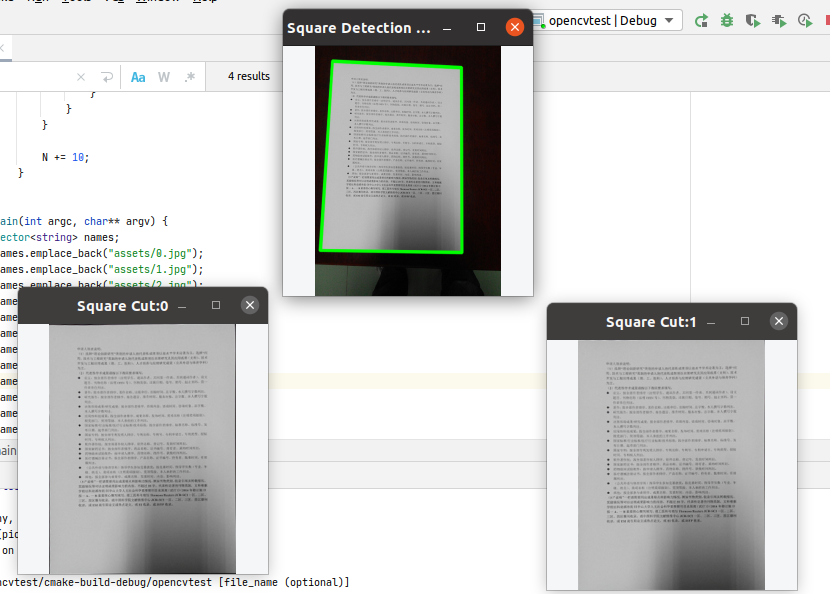
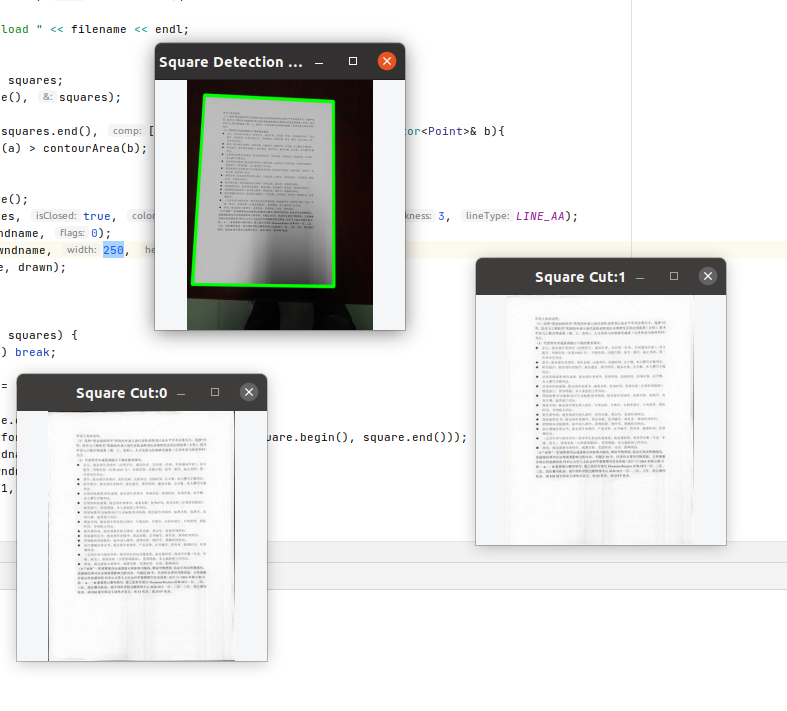
Added remove shadows

diff --git a/main.cpp b/main.cpp
@@ -138,6 +138,34 @@ static void findSquares( const Mat& image, vector<vector<Point> >& squares ) {
 		}
 	}
 }
+
+Mat removeShadows(const Mat& image) {
+	Mat rgb_planes[3];
+	split(image, rgb_planes);
+	Mat dilatation;
+	Mat blurred;
+	Mat difference;
+	Mat rgb_result[3];
+
+	for(int i = 0; i < 3; i++) {
+		Mat dilationKernel = getStructuringElement( MORPH_RECT, Size(9, 9));
+
+		dilate(rgb_planes[i], dilatation, dilationKernel);
+
+		medianBlur(dilatation, blurred, 21);
+
+		absdiff(rgb_planes[i], blurred, difference);
+		subtract(Scalar(255), difference, difference);
+
+		normalize(difference, rgb_result[i], 0, 255, NORM_MINMAX, CV_8UC1);
+	}
+
+	Mat result;
+	merge(rgb_result, 3, result);
+
+	return result;
+}
+
 int main(int argc, char** argv) {
 	vector<string> names;
 	names.emplace_back("assets/0.jpg");
@@ -197,7 +225,7 @@ int main(int argc, char** argv) {
 				fourPointTransform(cut, vector<Point2f>(square.begin(), square.end()));
 				namedWindow(wndname1, 0);
 				resizeWindow(wndname1, 250, 250);
-				imshow(wndname1, cut);
+				imshow(wndname1, removeShadows(cut));
 			}
 		}
 

diff --git a/README.md b/README.md
@@ -14,6 +14,7 @@ Credit:
 * [The "Square Detector" program, OpenCV](https://docs.opencv.org/4.3.0/db/d00/samples_2cpp_2squares_8cpp-example.html)
 * [OpenCV C++/Obj-C: Detecting a sheet of paper / Square Detection](https://stackoverflow.com/questions/8667818/opencv-c-obj-c-detecting-a-sheet-of-paper-square-detection)
 * [Algorithm to detect corners of paper sheet in photo](https://stackoverflow.com/questions/6555629/algorithm-to-detect-corners-of-paper-sheet-in-photo)
+* [Shadow removal with Open-CV](https://medium.com/arnekt-ai/shadow-removal-with-open-cv-71e030eadaf5)
 ----
 <a class="imgpatreon" href="https://www.patreon.com/emmanuelmess" target="_blank">
 <img alt="Become a patreon" src="https://user-images.githubusercontent.com/10991116/56376378-07065400-61de-11e9-9583-8ff2148aa41c.png" width=150px></a>
